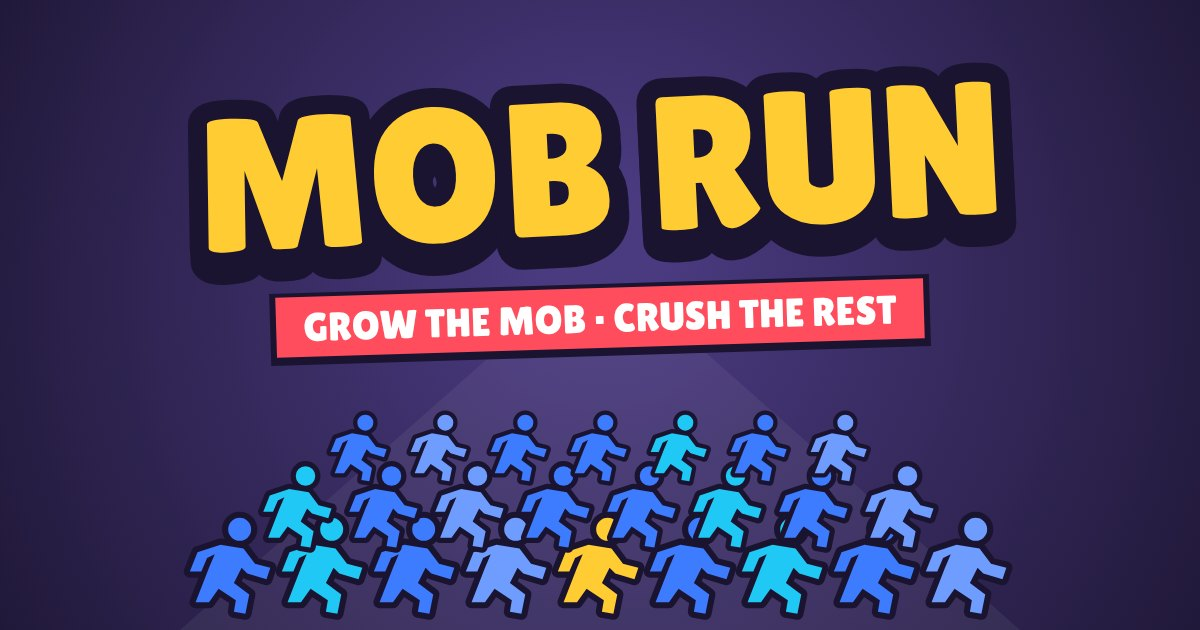
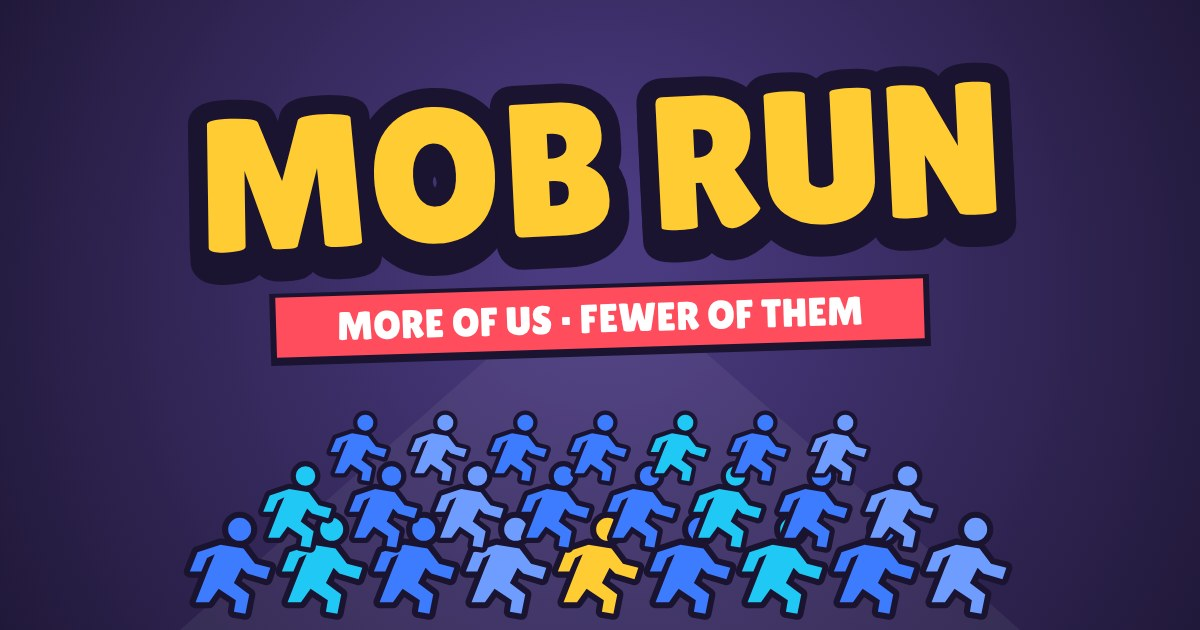
Named bosses with taunts, skills with character, a new tagline
- The three boss variants are recurring rivals: MURGO THE WALL, AUNTIE
  BOOM and THE GRUBB TWINS (Indonesian: MURGO SI TEMBOK, BIBI BOOM, SI
  KEMBAR GRUBB). Their entrance banner carries one of three taunts on a
  second line and stays up a little longer to be read; the boss bar uses
  the name
- Skills keep their ids but get names with some character, in both
  languages: SKEWER / TUSUK SATE, HAIR TRIGGER / JARI GATAL, ZAPPER /
  SETRUM, LUCKY SHOT, GIANT SLAYER, BACKS TO THE WALL, SECOND GEAR,
  BATTLE CRY, THICK SKIN / KULIT BADAK, LUCKY CHARM / JIMAT, STICKY
  FINGERS / TANGAN LENGKET
- Tagline is now MORE OF US · FEWER OF THEM (KITA BERTAMBAH · MEREKA
  TUMBANG); page and manifest descriptions rewritten; link preview image
  regenerated
- A mob standing behind a fighting boss no longer pins its count on the
  boss's body
- The first-mob tip waits until the mob is in view and no other tip is
  being read (it was firing ~65m early and overwriting the formation tip)

Claude-Session: https://claude.ai/code/session_01NFDTxNJGpo53auf1cjETwt

Changed region(s): [[0.2467, 0.4524, 0.7708, 0.5429]]

diff --git a/game3d.js b/game3d.js
@@ -338,26 +338,26 @@ const G = {
   time: 0, cause: '', mobsBeaten: 0, bossKills: 0, wallsBroken: 0, gateStreakBest: 0,
 };
 const SKILLS = [
-  { id: 'pierce', name: 'PIERCE', icon: 'arrow', col: '#4aa3ff', desc: L('Bullets punch through one more monster.', 'Peluru tembus satu monster lagi.'), max: 3 },
-  { id: 'split', name: 'FAN FIRE', icon: 'fan', col: '#4aa3ff', desc: L('One more pellet in every shot.', 'Tambah satu peluru di tiap tembakan.'), max: 3 },
-  { id: 'rate', name: 'TRIGGER', icon: 'bolt', col: '#ff9f1c', desc: L('Everybody shoots faster.', 'Semua menembak lebih cepat.'), max: 4 },
-  { id: 'dmg', name: 'HOLLOW POINT', icon: 'bullet', col: '#ff4d5e', desc: L('+1 damage on every bullet.', '+1 damage di setiap peluru.'), max: 5 },
+  { id: 'pierce', name: L('SKEWER', 'TUSUK SATE'), icon: 'arrow', col: '#4aa3ff', desc: L('Bullets punch through one more monster.', 'Peluru tembus satu monster lagi.'), max: 3 },
+  { id: 'split', name: L('FAN FIRE', 'TEMBAK KIPAS'), icon: 'fan', col: '#4aa3ff', desc: L('One more pellet in every shot.', 'Tambah satu peluru di tiap tembakan.'), max: 3 },
+  { id: 'rate', name: L('HAIR TRIGGER', 'JARI GATAL'), icon: 'bolt', col: '#ff9f1c', desc: L('Everybody shoots faster.', 'Semua menembak lebih cepat.'), max: 4 },
+  { id: 'dmg', name: L('HOLLOW POINT', 'PELURU TAJAM'), icon: 'bullet', col: '#ff4d5e', desc: L('+1 damage on every bullet.', '+1 damage di setiap peluru.'), max: 5 },
   { id: 'rally', name: 'RALLY', icon: 'flag', col: '#5bd44a', desc: L('Level-ups bring more recruits.', 'Naik level dapat lebih banyak rekrutan.'), max: 3 },
-  { id: 'shield', name: 'WARD', icon: 'shield', col: '#7a8cff', desc: L('Shrug off the next hit. Stacks.', 'Tahan satu serangan berikutnya. Bisa ditumpuk.'), max: 3 },
+  { id: 'shield', name: L('LUCKY CHARM', 'JIMAT'), icon: 'shield', col: '#7a8cff', desc: L('Shrug off the next hit. Stacks.', 'Tahan satu serangan berikutnya. Bisa ditumpuk.'), max: 3 },
   { id: 'magnet', name: 'MAGNET', icon: 'magnet', col: '#ff4d5e', desc: L('Coins and loot fly to you.', 'Koin dan hadiah terbang ke arahmu.'), max: 2 },
   { id: 'bulwark', name: 'BULWARK', icon: 'wall', col: '#8b6cff', desc: L('Lava, saws and walls bite less.', 'Lava, gergaji, dan tembok tak terlalu sakit.'), max: 3 },
-  { id: 'chain', name: 'CHAIN', icon: 'chain', col: '#ff9f1c', desc: L('Kills zap the monsters next door.', 'Monster yang mati menyetrum tetangganya.'), max: 2 },
-  { id: 'crit', name: 'CRIT', icon: 'star', col: '#ffb400', desc: L('Some shots hit double.', 'Sebagian tembakan berdamage ganda.'), max: 3 },
+  { id: 'chain', name: L('ZAPPER', 'SETRUM'), icon: 'chain', col: '#ff9f1c', desc: L('Kills zap the monsters next door.', 'Monster yang mati menyetrum tetangganya.'), max: 2 },
+  { id: 'crit', name: L('LUCKY SHOT', 'TEMBAKAN HOKI'), icon: 'star', col: '#ffb400', desc: L('Some shots hit double.', 'Sebagian tembakan berdamage ganda.'), max: 3 },
   { id: 'steady', name: 'ANCHOR', icon: 'anchor', col: '#4aa3ff', desc: L('Fewer soldiers slip off the edge.', 'Lebih sedikit prajurit jatuh dari tepi.'), max: 2 },
-  { id: 'overdrive', name: 'OVERDRIVE', icon: 'chevrons', col: '#ff9f1c', desc: L('Good gates spin up your guns for a bit.', 'Gerbang bagus bikin senjata ngebut sebentar.'), max: 2 },
-  { id: 'greed', name: 'GREED', icon: 'bag', col: '#ffb400', desc: L('Coins are worth 25% more.', 'Koin bernilai 25% lebih.'), max: 3 },
+  { id: 'overdrive', name: L('SECOND GEAR', 'GIGI DUA'), icon: 'chevrons', col: '#ff9f1c', desc: L('Good gates spin up your guns for a bit.', 'Gerbang bagus bikin senjata ngebut sebentar.'), max: 2 },
+  { id: 'greed', name: L('STICKY FINGERS', 'TANGAN LENGKET'), icon: 'bag', col: '#ffb400', desc: L('Coins are worth 25% more.', 'Koin bernilai 25% lebih.'), max: 3 },
   { id: 'fortune', name: 'FORTUNE', icon: 'sparkle', col: '#ffb400', desc: L('Bigger distance payout at the end.', 'Bonus jarak di akhir lebih besar.'), max: 2 },
-  { id: 'execution', name: 'EXECUTION', icon: 'skull', col: '#ff4d5e', desc: L('Bosses take way more damage.', 'Bos menerima damage jauh lebih besar.'), max: 3 },
-  { id: 'iron', name: 'IRON', icon: 'shield', col: '#8b6cff', desc: L('Lose fewer soldiers to everything.', 'Kehilangan lebih sedikit prajurit.'), max: 3 },
+  { id: 'execution', name: L('GIANT SLAYER', 'PEMBURU RAKSASA'), icon: 'skull', col: '#ff4d5e', desc: L('Bosses take way more damage.', 'Bos menerima damage jauh lebih besar.'), max: 3 },
+  { id: 'iron', name: L('THICK SKIN', 'KULIT BADAK'), icon: 'shield', col: '#8b6cff', desc: L('Lose fewer soldiers to everything.', 'Kehilangan lebih sedikit prajurit.'), max: 3 },
   { id: 'focus', name: 'FOCUS', icon: 'crosshair', col: '#ff4d5e', desc: L('Tighter, deadlier volleys.', 'Tembakan lebih rapat dan mematikan.'), max: 3 },
-  { id: 'warcry', name: 'WARCRY', icon: 'megaphone', col: '#5bd44a', desc: L('Good gates bring extra recruits.', 'Gerbang bagus menambah rekrutan.'), max: 3 },
+  { id: 'warcry', name: L('BATTLE CRY', 'PEKIK PERANG'), icon: 'megaphone', col: '#5bd44a', desc: L('Good gates bring extra recruits.', 'Gerbang bagus menambah rekrutan.'), max: 3 },
   { id: 'scavenge', name: 'SCAVENGE', icon: 'bag', col: '#ffb400', desc: L('Monsters drop coins sometimes.', 'Monster kadang menjatuhkan koin.'), max: 3 },
-  { id: 'laststand', name: 'LAST STAND', icon: 'heart', col: '#ff4d5e', desc: L('Under 18 soldiers? Hit harder.', 'Di bawah 18 prajurit? Pukul lebih keras.'), max: 2 },
+  { id: 'laststand', name: L('BACKS TO THE WALL', 'TERSUDUT'), icon: 'heart', col: '#ff4d5e', desc: L('Under 18 soldiers? Hit harder.', 'Di bawah 18 prajurit? Pukul lebih keras.'), max: 2 },
   { id: 'quickstep', name: 'QUICKSTEP', icon: 'chevrons', col: '#5bd44a', desc: L('Switch formation faster.', 'Ganti formasi lebih cepat.'), max: 2 },
   { id: 'hoard', name: 'HOARD', icon: 'magnet', col: '#ffb400', desc: L('Grab coins from farther out.', 'Ambil koin dari lebih jauh.'), max: 2 },
 ];
@@ -1979,7 +1979,6 @@ function spawnMob(wy, scale, band) {
   mobs.push(m);
   /* one banner at a time: if something else is being announced, the band's own label does the job */
   if (band && performance.now() > bannerUntil) bannerFlash(L('WAR BAND AHEAD', 'PASUKAN PERANG!'), '#ff5d6a');
-  if (!META.seenMob) { META.seenMob = true; showHint(L('RED MOB AHEAD · shoot it down, then outnumber it on contact', 'GEROMBOLAN MERAH · tembak dulu, lalu kalahkan jumlahnya'), 4.5); }
   return m;
 }
 function mobVisible(m) { return Math.max(1, Math.min(m.units.length, Math.ceil(m.units.length * m.count / m.start))); }
@@ -2046,7 +2045,20 @@ function bossBits(boss) {
   return g;
 }
 function dropBossBits(e) { if (e.aura) scene.remove(e.aura); if (e.acc) scene.remove(e.acc); }
-function bossTitle(e) { return e.shooter ? L('GUNNER BOSS', 'BOS PENEMBAK') : e.splitter ? L('SPLITTER BOSS', 'BOS PEMBELAH') : L('BRUTE BOSS', 'BOS RAKSASA'); }
+/* three recurring rivals, each with a name and a mouth on them */
+const BOSSES = {
+  brute: { name: L('MURGO THE WALL', 'MURGO SI TEMBOK'), taunts: L(
+    ["Murgo doesn't move. You do.", 'He ate the last squad.', 'Big, slow, and very, very rude.'],
+    ['Murgo tak bergeser. Kamu yang minggir.', 'Dia memakan pasukan terakhir.', 'Besar, lambat, dan sangat tidak sopan.']) },
+  gunner: { name: L('AUNTIE BOOM', 'BIBI BOOM'), taunts: L(
+    ["She brought snacks. They're on fire.", 'Duck. No, the other way.', 'Every orb is a hug.'],
+    ['Dia bawa camilan. Camilannya terbakar.', 'Menunduk! Bukan, ke arah lain.', 'Setiap bola api adalah pelukan.']) },
+  splitter: { name: L('THE GRUBB TWINS', 'SI KEMBAR GRUBB'), taunts: L(
+    ['Hit one, meet the other.', 'Twice the ugly.', 'They share everything. Even you.'],
+    ['Pukul satu, kenalan sama yang lain.', 'Jeleknya dua kali lipat.', 'Mereka berbagi segalanya. Termasuk kamu.']) },
+};
+const bossKind = (e) => (e.shooter ? 'gunner' : e.splitter ? 'splitter' : 'brute');
+function bossTitle(e) { return BOSSES[bossKind(e)].name; }
 function spawnBoss(wy) {
   bossIntro = true;   /* whichever boss comes first is the intro: never two in a row */
   const d = G.level;
@@ -2348,16 +2360,18 @@ function loseSoldiers(n, cause) {
   addSoldiers(G.soldiers - n);
 }
 
-function bannerFlash(text, color) {
+function bannerFlash(text, color, sub) {
   zoneBanner.textContent = text;
+  if (sub) { const sm = document.createElement('small'); sm.textContent = sub; zoneBanner.appendChild(sm); }
   zoneBanner.style.color = color || '';
   zoneBanner.classList.remove('go');
   void zoneBanner.offsetWidth;
   zoneBanner.classList.add('go');
   zoneBanner.style.opacity = '1';
   clearTimeout(bannerT);
-  bannerT = setTimeout(() => { zoneBanner.style.opacity = '0'; }, 1500);
-  bannerUntil = performance.now() + 1700;
+  /* a banner with a second line stays up long enough to read it */
+  bannerT = setTimeout(() => { zoneBanner.style.opacity = '0'; }, sub ? 2400 : 1500);
+  bannerUntil = performance.now() + (sub ? 2600 : 1700);
   /* one message at a time in the middle of the screen */
   if (toastEl && toastEl.classList.contains('on')) toastEl.classList.add('hush');
 }
@@ -3918,7 +3932,8 @@ function update(dt) {
     /* boss entrance: name card, roar, a jolt, the moment it comes into view */
     if (e.boss && !e.introduced && e.wy - G.camY < 540) {
       e.introduced = true; e.roar = 1; e.fightT = 0; e.budget = 0;
-      bannerFlash(bossTitle(e) + '!', '#ff5d4a');
+      const bt = BOSSES[bossKind(e)].taunts;
+      bannerFlash(bossTitle(e) + '!', '#ff5d4a', bt[ri(0, bt.length - 1)]);
       sfx.boss(); G.shake = Math.max(G.shake, 9); fovKick = Math.max(fovKick, 6); vib(60);
     }
     /* the showdown: once in view the boss keeps its distance, then closes in.
@@ -3976,6 +3991,8 @@ function update(dt) {
     m.hw = mobHalfW(m);
     const ahead = m.wy - m.hd - G.camY;
     if (m.band && !m.hinted && ahead < 760) { m.hinted = true; tutorialHint('band'); }
+    /* the first mob ever: explain it once it is actually in view, and not over a tip still being read */
+    if (!META.seenMob && ahead < 700 && hintT < 0.6) { META.seenMob = true; showHint(L('RED MOB AHEAD · shoot it down, then outnumber it on contact', 'GEROMBOLAN MERAH · tembak dulu, lalu kalahkan jumlahnya'), 4.5); }
     if (!m.clash) {
       m.wy -= 34 * dt;
       if (ahead < 620) {
@@ -4630,6 +4647,7 @@ function draw(now) {
   }
   /* rival mobs */
   let mu = 0;
+  const bossUp = enemies.find((e) => e.boss && e.introduced && e.hp > 0);
   for (const m of mobs) {
     if (m.dead) continue;
     const zP0 = wz(m.wy);
@@ -4664,7 +4682,9 @@ function draw(now) {
       dummy.updateMatrix();
       shadowMesh.setMatrixAt(shI++, dummy.matrix);
     }
-    setLabel(m.label, wx(m.x), 2.0, wz(m.wy - m.hd), fmtNum(m.count));
+    /* a mob standing behind a fighting boss would pin its count on the boss's body */
+    if (bossUp && m.wy > bossUp.wy && Math.abs(m.x - bossUp.x) < 95) m.label.style.display = 'none';
+    else setLabel(m.label, wx(m.x), 2.0, wz(m.wy - m.hd), fmtNum(m.count));
     m.label.classList.toggle('big', m.count > G.soldiers);
     m.label.classList.toggle('band', m.band);
   }
@@ -5049,7 +5069,7 @@ if (/[?&]debug\b/.test(location.search)) {
 scene.traverse(o => { if (o.isInstancedMesh || o.isPoints) o.frustumCulled = false; });
 if (LANG === 'id') {
   const setT = (sel, txt) => { const el = document.querySelector(sel); if (el) el.firstChild ? (el.firstChild.nodeValue = txt) : (el.textContent = txt); };
-  setT('.ribbon', 'BESARKAN PASUKAN · HANCURKAN SEMUA');
+  setT('.ribbon', 'KITA BERTAMBAH · MEREKA TUMBANG');
   setT('#playBtn', 'MAIN');
   setT('#shopBtn', 'GUDANG');
   setT('#shopBtnOver', 'GUDANG');

diff --git a/index.html b/index.html
@@ -2,7 +2,7 @@
 <html lang="en">
 <head>
 <meta charset="utf-8">
-<meta name="description" content="Grow the mob, pick the gates, crush the rest. A 3D crowd-runner you can play with one thumb.">
+<meta name="description" content="Pick the right gate, swell your crowd, and outnumber everything on the road. A 3D crowd runner for one thumb.">
 <meta name="viewport" content="width=device-width, initial-scale=1, maximum-scale=1, user-scalable=no, viewport-fit=cover">
 <meta name="apple-mobile-web-app-capable" content="yes">
 <meta name="mobile-web-app-capable" content="yes">
@@ -11,7 +11,7 @@
 <meta name="theme-color" content="#1b1430">
 <meta property="og:type" content="website">
 <meta property="og:title" content="MOB RUN">
-<meta property="og:description" content="Grow the mob, pick the gates, crush the rest. A 3D crowd-runner you can play with one thumb.">
+<meta property="og:description" content="Pick the right gate, swell your crowd, and outnumber everything on the road. A 3D crowd runner for one thumb.">
 <meta property="og:url" content="https://mob-run.pages.dev/">
 <meta property="og:image" content="https://mob-run.pages.dev/og-image.jpg">
 <meta property="og:image:width" content="1200">
@@ -114,6 +114,7 @@
     letter-spacing:2px; color:#fff; opacity:0; z-index:5; text-shadow:var(--ol-drop); pointer-events:none; transition:opacity .45s;
     white-space:nowrap; }
   #zoneBanner.go { animation:bannerIn .5s cubic-bezier(.2,1.6,.4,1); }
+  #zoneBanner small { display:block; margin:4px auto 0; text-align:center; font-family:'Nunito', sans-serif; font-weight:800; font-size:15px; letter-spacing:.2px; color:#fff4dc; white-space:normal; max-width:84vw; }
   #hint { position:fixed; bottom:calc(16px + env(safe-area-inset-bottom)); left:50%; transform:translateX(-50%);
     font-size:13px; color:var(--ink); background:var(--cream); border:2px solid var(--ink); border-radius:999px; padding:5px 14px;
     box-shadow:0 3px 0 var(--ink); z-index:5; pointer-events:none; opacity:0; transition:opacity .6s; text-align:center;
@@ -446,7 +447,7 @@
 
 <div class="overlay" id="startOverlay">
   <div class="logo"><span>MOB</span><span>RUN</span></div>
-  <div class="ribbon">GROW THE MOB · CRUSH THE REST</div>
+  <div class="ribbon">MORE OF US · FEWER OF THEM</div>
   <div id="menuTop"><div id="bestLine"></div></div>
   <div id="rankLine"></div>
   <button type="button" class="btn gold dailyBtn" id="dailyBtn"></button>

diff --git a/sw.js b/sw.js
@@ -1,7 +1,7 @@
 /* MOB RUN cache.
    The big Three.js file stays cached. The game shell prefers the network
    so a refresh picks up changes, and falls back to cache within 1.2s. */
-const CACHE = 'mobrun-v26';
+const CACHE = 'mobrun-v27';
 const PRECACHE = [
   './',
   './index.html',
